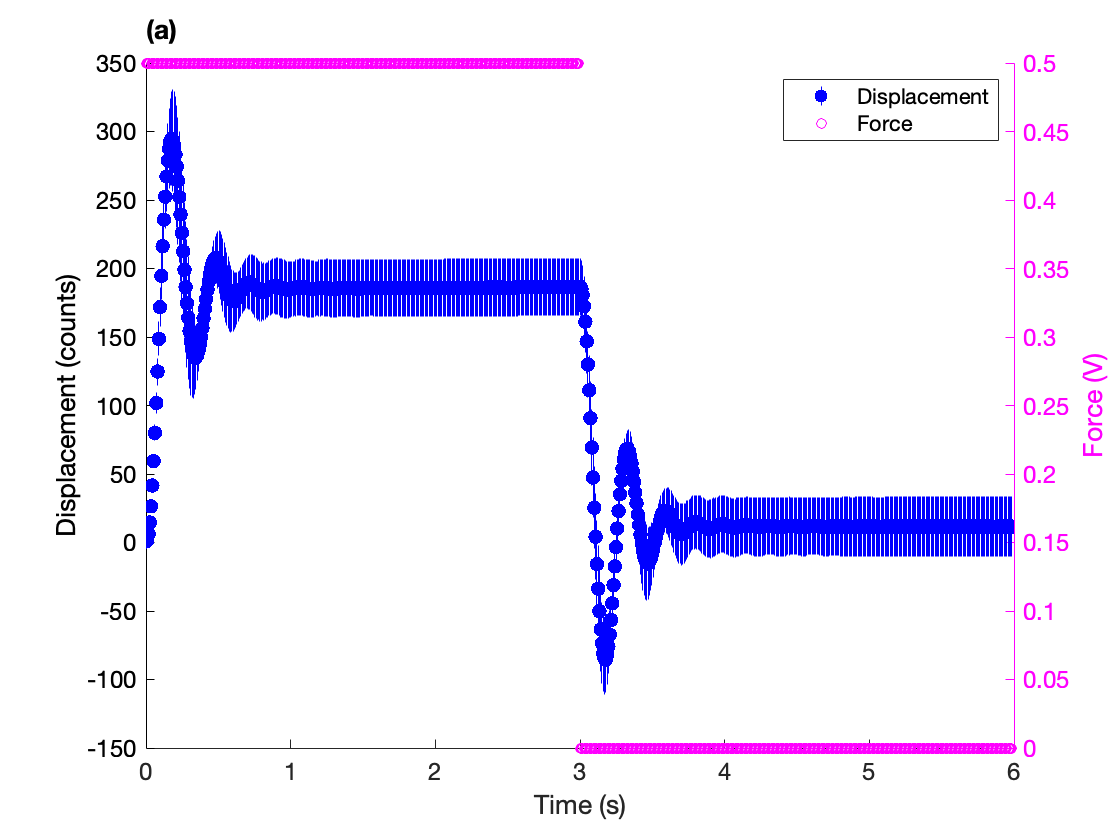
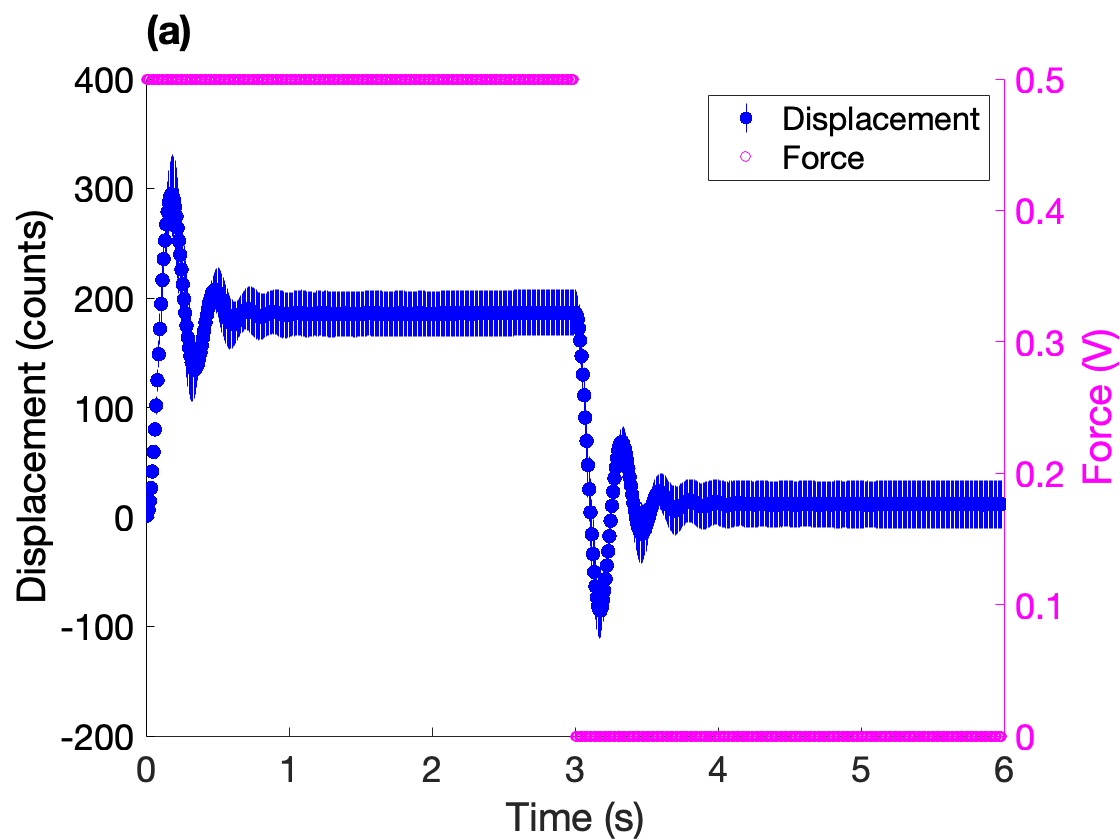
.

diff --git a/MAE 171A/Lab 3/1 DOF/encoder1_analysis.m b/MAE 171A/Lab 3/1 DOF/encoder1_analysis.m
@@ -4,7 +4,7 @@ ks = zeros(5,1);
 ms = zeros(5,1);
 ds = zeros(5,1);
 
-n = 3;
+n = 1;
 w = 100;
 
 x1_data = zeros(677,5);
@@ -57,7 +57,7 @@ for i = 1:5
     
     ax = gca;
     ax.TitleHorizontalAlignment = 'left';
-    set(ax,'FontSize',12)
+    set(ax,'FontSize',18)
 
     pause()
 end
@@ -95,7 +95,7 @@ title("(a)")
 legend('Displacement','Force')  
 ax = gca;
 ax.TitleHorizontalAlignment = 'left';
-set(ax,'FontSize',12)
+set(ax,'FontSize',18)
 
 [y_pks,t_pks] = findpeaks(x1_mean,time,'NPeaks',n+1);
 
@@ -110,3 +110,30 @@ beta = beta_omega_n/omega_n;
 k_ = 0.5/y_ss;
 m_ = k_/omega_n^2;
 d_ = k_*2*beta/omega_n;
+
+
+%%
+x1_mean = mean(x1_data,2);
+
+syms t s
+% G = tf(1, [m d 0]);
+G = 1 / (m*s^2 + d*s + k);
+u = 0.5 - 0.5*heaviside(t-3);
+U = laplace(u);
+Y = G*U;
+y = ilaplace(Y);
+
+figure(3)
+clf
+hold on
+plot(time,x1_mean,'b.','MarkerSize',10)
+fplot(y,[0,6],'r-','LineWidth',2)
+hold off
+
+ylabel("Displacement (counts)")
+xlabel("Time (s)")
+title("(b)")
+legend('Mean Data','Model')  
+ax = gca;
+ax.TitleHorizontalAlignment = 'left';
+set(ax,'FontSize',18)

diff --git a/MAE 171A/Lab 3/1 DOF/encoder2_analysis.m b/MAE 171A/Lab 3/1 DOF/encoder2_analysis.m
@@ -55,7 +55,7 @@ for i = 1:5
     
     ax = gca;
     ax.TitleHorizontalAlignment = 'left';
-    set(ax,'FontSize',12)
+    set(ax,'FontSize',18)
 
     pause()
 end
@@ -85,7 +85,7 @@ title("(a)")
 legend('Displacement')  
 ax = gca;
 ax.TitleHorizontalAlignment = 'left';
-set(ax,'FontSize',12)
+set(ax,'FontSize',18)
 
 idx = find(x2_mean == max(x2_mean),1,'first');
 [y_pks,t_pks] = findpeaks(x2_mean(idx:end),time(idx:end),'NPeaks',n+1);
@@ -101,3 +101,29 @@ beta = beta_omega_n/omega_n;
 
 m_ = k/omega_n^2;
 d_ = k*2*beta/omega_n;
+
+%%
+x2_mean = mean(x2_data,2);
+
+syms t s
+% G = tf(1, [m d 0]);
+Y = (m*s + d) / (m*s^2 + d*s + k) * 226;
+% u = 0.5 - 0.5*heaviside(t-3);
+% U = laplace(u);
+% Y = G*U;
+y = ilaplace(Y);
+
+figure(3)
+clf
+hold on
+plot(time,x2_mean,'b.','MarkerSize',10)
+fplot(y,[0,6],'r-','LineWidth',2)
+hold off
+
+ylabel("Displacement (counts)")
+xlabel("Time (s)")
+title("(b)")
+legend('Mean Data','Model')  
+ax = gca;
+ax.TitleHorizontalAlignment = 'left';
+set(ax,'FontSize',18)

diff --git a/MAE 171A/Lab 3/2 DOF/Frequency Response/plot_freq.m b/MAE 171A/Lab 3/2 DOF/Frequency Response/plot_freq.m
@@ -95,8 +95,8 @@ fs_2 = 1/mean(diff(time));
 %Txy_2 = smoothdata(Txy_2,'lowess',20);
 
 k2 = 2.710e-3;
-m1 = 3.595e-6;
-d1 = 4.320e-5;
+m1 = 5.783e-6;
+d1 = 5.885e-5;
 m2 = 7.441e-6;
 d2 = 7.772e-6;
 

diff --git a/MAE 171A/Lab 3/2 DOF/Step/plot_step.m b/MAE 171A/Lab 3/2 DOF/Step/plot_step.m
@@ -29,8 +29,8 @@ end
 
 %%
 k2 = 2.710e-3;
-m1 = 3.595e-6;
-d1 = 4.320e-5;
+m1 = 5.783e-6;
+d1 = 5.885e-5;
 m2 = 7.441e-6;
 d2 = 7.772e-6;
 
